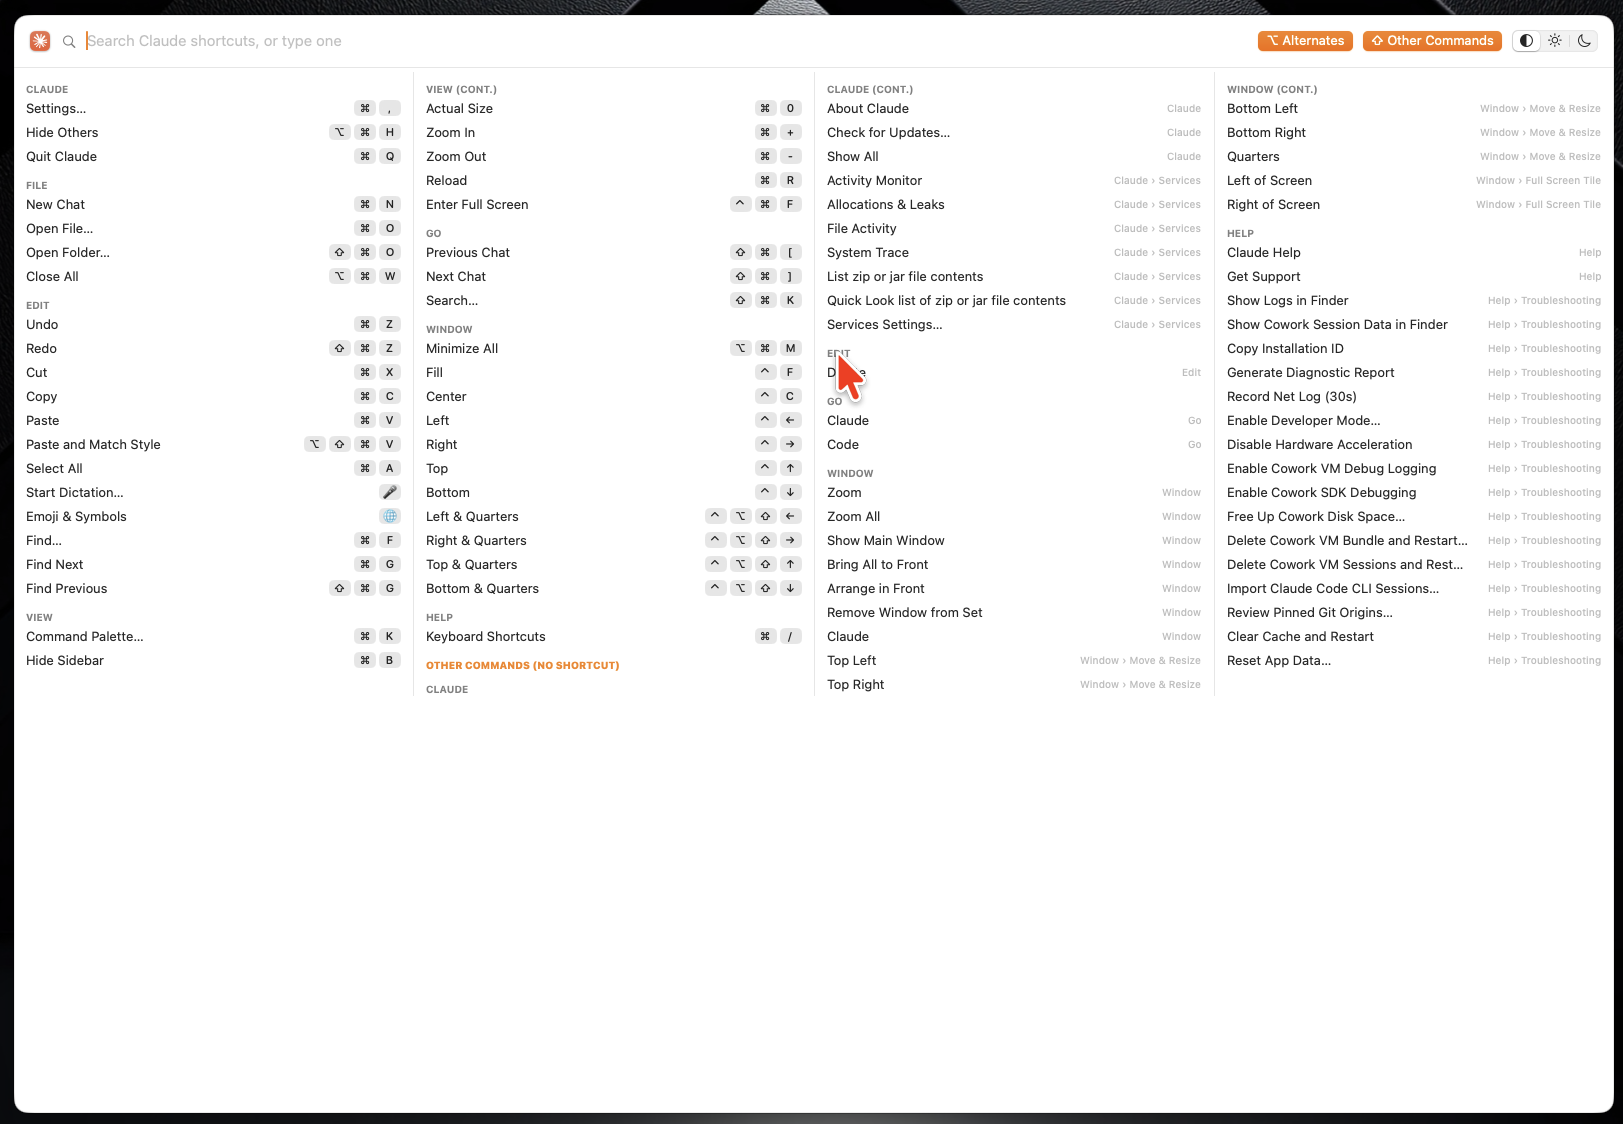
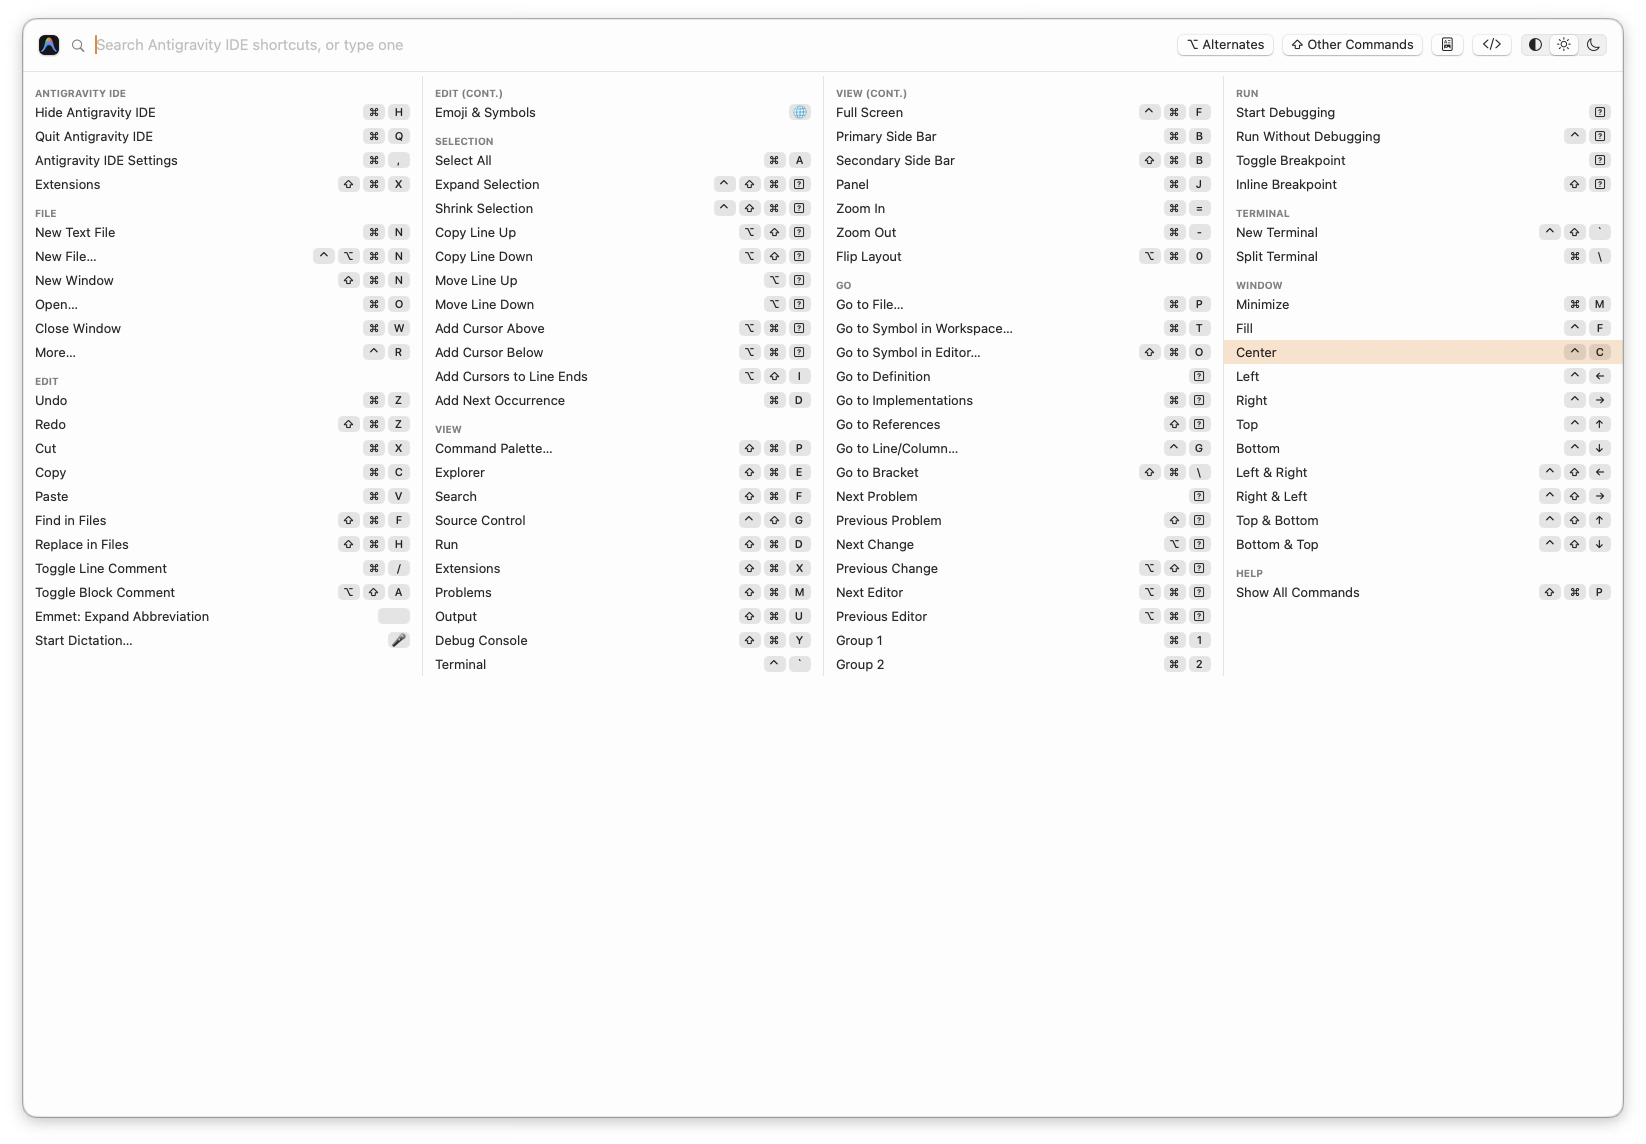
autoKSHelp 0.0.12: README screenshots

Changed region(s): [[0.0, 0.0, 1.0, 1.0], [0.4313, 0.0623, 0.647, 0.6228], [0.1848, 0.0623, 0.3697, 0.6228]]

diff --git a/README.md b/README.md
@@ -1,8 +1,9 @@
 # autoKSHelp
 
-A macOS menubar app that pops up the keyboard shortcuts of the frontmost app, read from its menu bar. Built with Swift/SwiftUI. Version 0.0.11.
+A macOS menubar app that pops up the keyboard shortcuts of the frontmost app, read from its menu bar. Built with Swift/SwiftUI. Version 0.0.12.
 
-![Screenshot](screenshots/autoKSHelp.png)
+![Auto Keyboard Shortcuts](screenshots/autoKSHelp.png)
+![Auto Keyboard Shortcuts with Alternates](screenshots/autoKSHelp-alternates.png)
 
 ## Install from a release
 
@@ -43,6 +44,7 @@ The two header buttons save exactly what the popup currently shows — search fi
 
 ## Changelog
 
+- **0.0.12** — README: light and dark (Alternates on) screenshots; no functional changes.
 - **0.0.11** — save the current view as landscape PDF or HTML (header buttons): includes the app icon, shows Alternates inline below their items, matches the popup's appearance.
 - **0.0.10** — keyboard navigation (arrows, Tab / ⇧Tab, Enter runs the highlighted row, hover also highlights); Shift and Option toggle only when tapped exclusively (on release).
 - **0.0.9** — fix: an empty "autoKSHelp Settings" window opened at every launch (from a placeholder SwiftUI scene); the app now starts with a plain AppKit entry point and opens no window.

diff --git a/SPEC.md b/SPEC.md
@@ -2,9 +2,9 @@
 
 Develop a menubar applet that generates a keyboard shortcuts popup using the frontmost apps menu. With options alternate actions. So if I hold the Option key down show those actions instead. The display should be a nicely formated light weight popup window that appeares at the screen center. Add search at the top to narrow down the list. Escape should hide the popup. Use Swift/Swift UI.
 
-## Implemented behavior (v0.0.11)
+## Implemented behavior (v0.0.12)
 
-See `screenshots/autoKSHelp.png` for the popup (4 columns, header toggles, appearance buttons).
+See `screenshots/autoKSHelp.png` (light) and `screenshots/autoKSHelp-alternates.png` (dark, Alternates on) for the popup: 4 columns, header toggles, export and appearance buttons.
 
 **Popup**
 - Menubar applet (no Dock icon, no windows at launch — plain AppKit entry point, no SwiftUI app scene); the menu shows the app name and version, *Show Shortcuts*, *Show Other Commands* (toggle), *Accessibility Settings…* and *Quit*.
